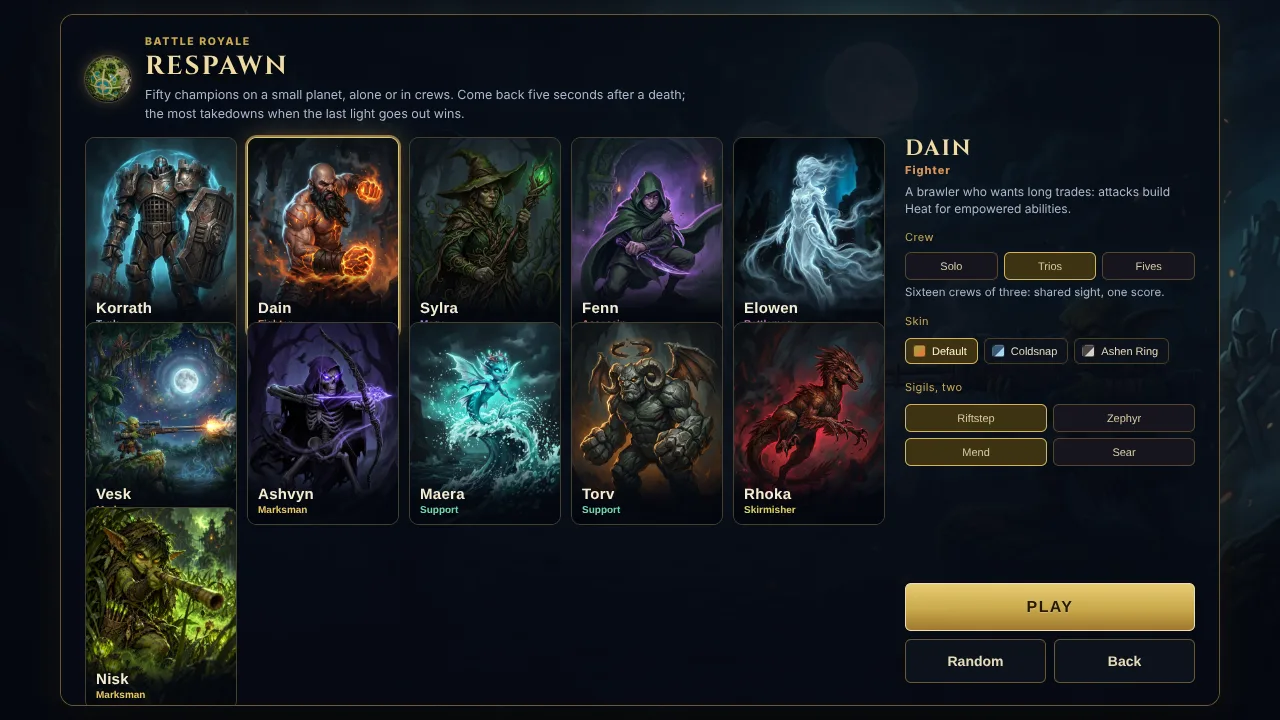
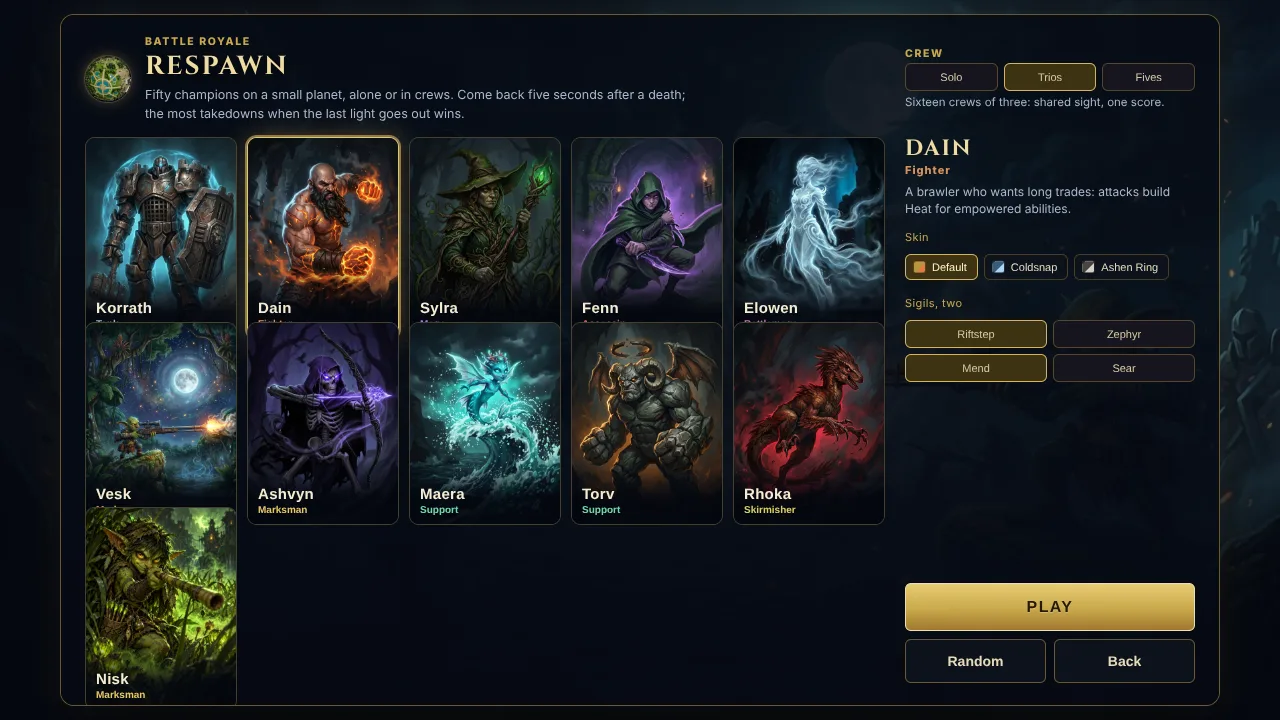
fix(ui): the crew choice in the pick's head, words that fit, Play now on Solo
From the review of the Crews tranche (ADR 0034):

- The Crew row in the quick pick's rail pushed Random and Back off a
  phone held sideways (844x390 with a long skin row, 740x360, 667x375).
  The choice now stands at the right of the card's head; the rail is
  as tall as before, nothing to scroll at any of those sizes, and a
  phone held upright keeps the emblem beside the title.
- The crews' win card title ran to two lines on a desktop and into the
  notices on a phone, and the win line overflowed its row: "The crew
  with the most takedowns wins", "Top crew wins · 4:12 left · your crew
  is 3rd", and on a phone One life's "Last crew standing wins" alone
  (the count beside the Dusk says the crews left). The layout test now
  holds the crews' words to the same rooms.
- Play now's quick pick opens on Solo, the match the landing says is
  on; the tiles open on the size last played.

The after screenshots are taken again.

Claude-Session: https://claude.ai/code/session_01PvBF7rcYHFuih3iQK816FY

Changed region(s): [[0.6875, 0.3361, 0.9062, 0.6722], [0.6875, 0.0611, 0.9062, 0.1528]]

diff --git a/tests/royale_win_layout.test.ts b/tests/royale_win_layout.test.ts
@@ -65,6 +65,8 @@ const DESKS: readonly [number, number][] = [
 ];
 const [PW, PH] = [844, 390];
 const BOTH = ['respawn', 'one_life'] as const;
+// Each rule set's card in Solo and in Crews (ADR 0034).
+const CARDS = BOTH.flatMap((v) => [[v, false] as const, [v, true] as const]);
 
 // The bar with its bars, slots and loot row at the bottom center of a
 // desktop, and the hints at its bottom left.
@@ -131,8 +133,8 @@ const inside = (b: ScreenBox, w: number, h: number): boolean =>
 describe('where the win card stands on a desktop', () => {
   for (const [w, h] of DESKS) {
     it(`stands at the left, off the champion and the HUD's lines, at ${w}x${h}`, () => {
-      for (const v of BOTH) {
-        const card = winCardBox(w, false, false, winCardWords(v));
+      for (const [v, crews] of CARDS) {
+        const card = winCardBox(w, false, false, winCardWords(v, crews));
         const near: [string, ScreenBox][] = [
           ['champion', championBox(w, h)],
           ['top line', topLineBox(w, false)],
@@ -145,7 +147,8 @@ describe('where the win card stands on a desktop', () => {
           ['map', deskMap(w, h)],
           ['chip', chipBox(w, h, false)],
         ];
-        for (const [name, box] of near) expect(overlaps(card, box), `${v} ${name}`).toBe(false);
+        for (const [name, box] of near)
+          expect(overlaps(card, box), `${v}${crews ? ' crews' : ''} ${name}`).toBe(false);
         expect(inside(card, w, h)).toBe(true);
       }
     });
@@ -156,8 +159,8 @@ describe('where the win card stands on a desktop', () => {
     // The lane fills from its foot: its first two notices.
     const foot = h - NOTES_BOTTOM_PX;
     const twoNotices: ScreenBox = { ...notesLane(w, h), top: foot - 2 * NOTE_H_PX };
-    for (const v of BOTH) {
-      const card = winCardBox(w, false, false, winCardWords(v));
+    for (const [v, crews] of CARDS) {
+      const card = winCardBox(w, false, false, winCardWords(v, crews));
       const near: [string, ScreenBox][] = [
         ['champion', championBox(w, h)],
         ['top line', topLineBox(w, false)],
@@ -166,7 +169,8 @@ describe('where the win card stands on a desktop', () => {
         ['notices', twoNotices],
         ['bar', bar(w, h)],
       ];
-      for (const [name, box] of near) expect(overlaps(card, box), `${v} ${name}`).toBe(false);
+      for (const [name, box] of near)
+        expect(overlaps(card, box), `${v}${crews ? ' crews' : ''} ${name}`).toBe(false);
     }
   });
 
@@ -176,8 +180,8 @@ describe('where the win card stands on a desktop', () => {
     // close button; the lines at their own widest.
     const t = WIN_DESK_TYPE;
     const w = winCardWidth(1280, false, false);
-    for (const v of BOTH) {
-      const words = winCardWords(v);
+    for (const [v, crews] of CARDS) {
+      const words = winCardWords(v, crews);
       expect(words.title.length * t.titlePx * 0.61).toBeLessThanOrEqual(
         w - 2 * t.padX - t.border - t.close,
       );
@@ -193,8 +197,8 @@ describe('where the win card stands on a desktop', () => {
 describe('where the win card stands on a phone', () => {
   for (const thumbs of [true, false]) {
     it(`stands left of the champion, clear of the controls, ${thumbs ? 'thumbs' : 'taps'}`, () => {
-      for (const v of BOTH) {
-        const card = winCardBox(PW, true, thumbs, winCardWords(v));
+      for (const [v, crews] of CARDS) {
+        const card = winCardBox(PW, true, thumbs, winCardWords(v, crews));
         const near: [string, ScreenBox][] = [
           ['champion', championBox(PW, PH)],
           ['top line', topLineBox(PW, true)],
@@ -215,7 +219,8 @@ describe('where the win card stands on a phone', () => {
         } else {
           near.push(['touch bar', tapsBar], ['hints', tapsHints]);
         }
-        for (const [name, box] of near) expect(overlaps(card, box), `${v} ${name}`).toBe(false);
+        for (const [name, box] of near)
+          expect(overlaps(card, box), `${v}${crews ? ' crews' : ''} ${name}`).toBe(false);
         expect(inside(card, PW, PH)).toBe(true);
         // Room for a line at a readable size.
         expect(card.right - card.left).toBeGreaterThanOrEqual(260);
@@ -279,6 +284,14 @@ describe('the win line', () => {
   const longest = (compact: boolean): string[] => [
     winLine({ v: 'respawn', st: 'play', end: 600, alive: 50, rk: 50 }, 0, compact) ?? '',
     winLine({ v: 'one_life', st: 'play', end: 600, alive: 50 }, 0, compact) ?? '',
+    // Crews: the last of sixteen crews.
+    winLine(
+      { v: 'respawn', st: 'play', end: 600, alive: 48, rk: 16, cw: { n: 16, s: 0 } },
+      0,
+      compact,
+    ) ?? '',
+    winLine({ v: 'one_life', st: 'play', end: 600, alive: 48, cw: { n: 16, s: 0 } }, 0, compact) ??
+      '',
   ];
 
   it("shares a phone's row with the Dusk's pill, clear of the thumbs' hints and map", () => {

diff --git a/src/ui/royale_pick.ts b/src/ui/royale_pick.ts
@@ -1,7 +1,9 @@
 // The battle royale's quick pick (ADR 0031): one card over the painted
-// backdrop, the ten champions of the roster on the left, the one chosen on
-// the right with the crew size (Solo, Trios, Fives; ADR 0034), its skins
-// and the two sigils, Random, and the big Play.
+// backdrop, the crew size (Solo, Trios, Fives; ADR 0034) at the right of
+// its head, the ten champions of the roster on the left, the one chosen on
+// the right with its skins and the two sigils, Random, and the big Play.
+// The crew stands in the head, not the rail: in the rail it pushed Random
+// and Back off a phone held sideways (the review, 2026-10-13).
 // No lanes, no bans, no clock, and nothing taken: duplicates are allowed.
 // It opens on the pick last played (ui/royale_pick_rules.ts decides, the
 // host remembers it); Back, Escape or the browser's Back leave it with no
@@ -47,9 +49,12 @@ const CSS = `
 .br-pick-role { font-size: 11px; font-weight: 800; letter-spacing: 1px; margin-top: 2px; }
 .br-pick-blurb { font-size: 12px; line-height: 1.45; color: #a9b9cf; margin: 6px 0 2px; }
 .br-pick-side .menu-sigils { flex-wrap: wrap; }
-.br-pick-crews { display: flex; gap: 6px; margin: 4px 0 2px; }
-.br-pick-crews .menu-sigil { flex: 1 1 0; }
-.br-pick-crew-line { font-size: 11.5px; line-height: 1.4; color: #a9b9cf; margin: 2px 0 4px; }
+.br-pick-head { flex-wrap: wrap; }
+.br-pick-words { flex: 1 1 200px; min-width: 0; }
+.br-pick-crew { margin-left: auto; width: 290px; flex: none; }
+.br-pick-crews { display: flex; gap: 6px; margin: 3px 0 0; }
+.br-pick-crews .menu-sigil { flex: 1 1 0; margin: 0; }
+.br-pick-crew-line { font-size: 11.5px; line-height: 1.4; color: #a9b9cf; margin: 3px 0 0; }
 .br-pick-side .menu-sigil { flex: 1 1 40%; }
 .br-pick-actions { margin-top: auto; padding-top: 10px; display: flex; flex-direction: column; gap: 0; }
 .br-pick-actions .menu-btn { min-height: 44px; }
@@ -64,6 +69,7 @@ const CSS = `
 }
 @media (max-width: 560px) {
   .br-pick-grid { grid-template-columns: repeat(3, minmax(0, 1fr)); }
+  .br-pick-crew { width: 100%; margin-left: 0; }
 }
 /* A phone held sideways (844x390): the head is one line, the cards sit
    in two rows of five on the left, the rail beside them with Play pinned
@@ -88,7 +94,10 @@ const CSS = `
   .br-pick-side .menu-skins, .br-pick-side .menu-sigils { margin: 2px 0 2px; gap: 4px; }
   .br-pick-side .menu-skin { padding: 4px 7px 4px 22px; font-size: 10px; }
   .br-pick-side .menu-sigil { padding: 5px 2px; font-size: 10px; min-height: 30px; }
-  .br-pick-crew-line { display: none; }
+  .br-pick-crew { width: 236px; }
+  .br-pick-crew small, .br-pick-crew-line { display: none; }
+  .br-pick-crews { margin: 0; gap: 4px; }
+  .br-pick-crews .menu-sigil { padding: 3px 2px; font-size: 10px; min-height: 24px; }
   .br-pick-actions { padding-top: 4px; }
   .br-pick-actions .menu-btn { margin-top: 4px; padding: 6px; font-size: 12px; }
   .br-pick-play.menu-btn.primary { padding: 8px 6px; font-size: 14px; }
@@ -132,7 +141,7 @@ export function showRoyalePick(
 
   const mode = royaleMode(opts.variant);
   const head = el('div', 'br-pick-head');
-  const words = el('div', '');
+  const words = el('div', 'br-pick-words');
   words.append(
     el('small', '', ROYALE_LABEL),
     el('h1', 'menu-title', mode.title),
@@ -180,6 +189,9 @@ export function showRoyalePick(
     crewButtons.set(c.crew, btn);
     crewRow.appendChild(btn);
   }
+  const crewBox = el('div', 'br-pick-crew');
+  crewBox.append(el('small', '', 'Crew'), crewRow, crewLine);
+  head.appendChild(crewBox);
   const skinRow = el('div', 'menu-skins');
   const sigilRow = el('div', 'menu-sigils');
   const sigilButtons = new Map<string, HTMLButtonElement>();
@@ -213,9 +225,6 @@ export function showRoyalePick(
     name,
     roleLine,
     blurb,
-    el('div', 'menu-label', 'Crew'),
-    crewRow,
-    crewLine,
     el('div', 'menu-label', 'Skin'),
     skinRow,
     el('div', 'menu-label', 'Sigils, two'),

diff --git a/src/main.ts b/src/main.ts
@@ -119,7 +119,12 @@ import { showReloadNotice } from './ui/reload_notice';
 import { buildReplayBar, type ReplayBar } from './ui/replay_bar';
 import { replayRefusal } from './ui/replay_notice';
 import { showRoyaleJoining, showRoyalePick } from './ui/royale_pick';
-import { FIRST_ROYALE_CHAMPION, initialPick, type RoyalePick } from './ui/royale_pick_rules';
+import {
+  FIRST_ROYALE_CHAMPION,
+  initialPick,
+  type RoyalePick,
+  withCrew,
+} from './ui/royale_pick_rules';
 import { seatLine } from './ui/seat_lines';
 import { attachTurnAsk } from './ui/turn_ask';
 import type { IWorld } from './world_api';
@@ -1321,7 +1326,7 @@ async function runOnline(choice: HomeChoice, guest = false): Promise<PostMatchAc
 // from: the pick last played already chosen, remembered on Play for next
 // time. Null when it is left without a pick: its Back, Escape, or the
 // browser's Back.
-async function pickForRoyale(variant: RoyaleVariant): Promise<RoyalePick | null> {
+async function pickForRoyale(variant: RoyaleVariant, solo = false): Promise<RoyalePick | null> {
   // The map downloads while the person picks, as for every other match.
   prefetchStarOrchard();
   return new Promise((resolve) => {
@@ -1330,13 +1335,14 @@ async function pickForRoyale(variant: RoyaleVariant): Promise<RoyalePick | null>
       frame.closed();
       resolve(null);
     };
-    const initial = initialPick(
+    const remembered = initialPick(
       getSettings().royalePick,
       CHAMPION_LIST.map((c) => c.id),
       (id) => SKINS[id]?.length ?? 1,
       SIGIL_LIST.map((s) => s.id),
       FIRST_ROYALE_CHAMPION,
     );
+    const initial = solo ? withCrew(remembered, 1) : remembered;
     const picker = showRoyalePick(container, {
       variant,
       initial,
@@ -1643,7 +1649,7 @@ async function runRoyale(
 // the battle royale, which Play now launches, or the 5v5's public queue,
 // Play again queueing again. Resolves with the exit that ended it.
 async function playAsGuest(guestName: string, play: LandingPlay): Promise<PostMatchAction> {
-  if (play.to === 'royale') return royaleLoop(play.variant, true);
+  if (play.to === 'royale') return royaleLoop(play.variant, true, play.solo === true);
   let action: PostMatchAction = 'again';
   while (action === 'again') action = await runOnline({ name: guestName, mode: 'queue' }, true);
   return action;
@@ -1651,9 +1657,14 @@ async function playAsGuest(guestName: string, play: LandingPlay): Promise<PostMa
 
 // Battle royales back to back (game/royale_flow.ts): the quick pick once,
 // then Play again and the other rule set straight into the next match with
-// the same pick. Resolves with the exit that left the loop.
-async function royaleLoop(variant: RoyaleVariant, guest: boolean): Promise<PostMatchAction> {
-  const pick = await pickForRoyale(variant);
+// the same pick. Play now's quick pick opens on Solo (`solo`, ADR 0034).
+// Resolves with the exit that left the loop.
+async function royaleLoop(
+  variant: RoyaleVariant,
+  guest: boolean,
+  solo = false,
+): Promise<PostMatchAction> {
+  const pick = await pickForRoyale(variant, solo);
   if (!pick) return 'menu';
   let rules = variant;
   for (;;) {

diff --git a/tests/royale_crews_ui.test.ts b/tests/royale_crews_ui.test.ts
@@ -8,6 +8,7 @@ import { crewWatchTarget } from '../src/game/crew_watch';
 import { clampSettings } from '../src/game/settings';
 import { royaleEnterMsg } from '../src/net/royale_client';
 import type { RoyaleResult, SnapMark } from '../src/net/royale_wire';
+import { LANDING_WAYS, PLAY_NOW } from '../src/ui/landing_modes';
 import { huntedTargets } from '../src/ui/royale_hunted';
 import { CREW_CHOICES, crewChoice } from '../src/ui/royale_modes';
 import { joiningLine } from '../src/ui/royale_pick';
@@ -44,6 +45,12 @@ describe('the crew size on the quick pick', () => {
     expect(initialPick(memory, ['dain'], () => 1, ['riftstep', 'mend'], 'dain').crew).toBe(3);
   });
 
+  it("opens Play now's pick on Solo, the match the landing says is on", () => {
+    expect(PLAY_NOW.play).toEqual({ to: 'royale', variant: 'respawn', solo: true });
+    const oneLife = LANDING_WAYS.find((w) => w.id === 'one_life')!;
+    expect(oneLife.door.play).toEqual({ to: 'royale', variant: 'one_life' });
+  });
+
   it('says what the joining card waits on', () => {
     expect(joiningLine(1)).toMatch(/fifty seats/);
     expect(joiningLine(3)).toBe('Finding you a crew of three, bots in the empty seats.');
@@ -75,10 +82,13 @@ describe('the top line and the win line in Crews', () => {
 
   it('says what wins in Crews', () => {
     const r = { ...base, end: 610, rk: 3, cw: { n: 16, s: 4 } };
-    expect(winLine(r, 358)).toBe('Most crew takedowns wins · 4:12 left · your crew is 3rd');
-    expect(winLine({ ...r, v: 'one_life', cw: { n: 5, s: 0 } }, 100)).toBe(
-      'Last crew standing wins · 5 crews left',
-    );
+    expect(winLine(r, 358)).toBe('Top crew wins · 4:12 left · your crew is 3rd');
+    expect(winLine(r, 358, true)).toBe('Top crew wins · 4:12 left');
+    const oneLife = { ...r, v: 'one_life' as const, cw: { n: 5, s: 0 } };
+    expect(winLine(oneLife, 100)).toBe('Last crew standing wins · 5 left');
+    // On a phone the count beside the Dusk line says the crews left.
+    expect(winLine(oneLife, 100, true)).toBe('Last crew standing wins');
+    expect(winCardWords('respawn', true).title).toBe('The crew with the most takedowns wins');
     expect(winCardWords('one_life', true).title).toBe('Last crew standing wins');
     expect(winCardWords('one_life').title).toBe('Last one standing wins');
   });

diff --git a/src/ui/royale_win_line.ts b/src/ui/royale_win_line.ts
@@ -3,9 +3,11 @@
 // viewer stands. Respawn: "Most takedowns wins · 4:12 left · you are 11th",
 // the time until the last light goes out and the own rank (the count line
 // above qualifies a drop-in's, "since you landed"). One life: "Last one
-// standing wins · 23 left". In Crews (ADR 0034) the crews': "Most crew
-// takedowns wins · 4:12 left · your crew is 3rd", "Last crew standing wins
-// · 5 crews left". On a phone (`compact`) the line shares its row
+// standing wins · 23 left". In Crews (ADR 0034) the crews': "Top crew
+// wins · 4:12 left · your crew is 3rd", "Last crew standing wins · 5 left"
+// (the crews; the count line above names them, alone on a phone), no wider
+// than Solo's. On a
+// phone (`compact`) the line shares its row
 // with the Dusk's pill and leaves the rank to the count beside the Dusk
 // line, which carries it there; on a desktop the pill takes its place
 // while it shows (winLineAside).
@@ -14,7 +16,7 @@
 // ui/royale_win_view.ts draws it.
 
 import type { SnapRoyale } from '../net/royale_wire';
-import { clockText, crewsText, ordinal } from './royale_text';
+import { clockText, ordinal } from './royale_text';
 
 // Its size and padding, a desktop's and a phone's, and the gap to the
 // Dusk's pill beside it on a phone (ui/royale_win_view.ts).
@@ -29,7 +31,7 @@ export const WIN_LINE_EM_PER_CHAR = 0.6;
 
 export const RESPAWN_WINS = 'Most takedowns wins';
 export const ONE_LIFE_WINS = 'Last one standing wins';
-export const CREW_RESPAWN_WINS = 'Most crew takedowns wins';
+export const CREW_RESPAWN_WINS = 'Top crew wins';
 export const CREW_ONE_LIFE_WINS = 'Last crew standing wins';
 
 export function winLine(
@@ -39,7 +41,9 @@ export function winLine(
 ): string | null {
   if (r.st !== 'play') return null;
   if (r.v === 'one_life') {
-    if (r.cw) return `${CREW_ONE_LIFE_WINS} · ${crewsText(r.cw.n)} left`;
+    // On a phone the count beside the Dusk line already says the crews
+    // left (royale_text.ts crewCountLine), and the row has no room for both.
+    if (r.cw) return compact ? CREW_ONE_LIFE_WINS : `${CREW_ONE_LIFE_WINS} · ${r.cw.n} left`;
     return `${ONE_LIFE_WINS} · ${r.alive} left`;
   }
   const parts = [r.cw ? CREW_RESPAWN_WINS : RESPAWN_WINS, `${clockText(r.end - time)} left`];

diff --git a/src/ui/landing_modes.ts b/src/ui/landing_modes.ts
@@ -83,7 +83,10 @@ export function accountCardWords(own: LandingOwn | null): { title: string; line:
 
 // What a way in plays as a Guest (ADR 0024): the battle royale on one of its
 // two rule sets (ADR 0031), or the 5v5 on the Star Orchard.
-export type LandingPlay = { to: 'royale'; variant: RoyaleVariant } | { to: 'classic' };
+// `solo`: the quick pick opens on Solo whatever crew size it remembers
+// (ADR 0034: Play now stays Respawn in Solo, the match the landing's line
+// says is on); the person may still choose a crew on it.
+export type LandingPlay = { to: 'royale'; variant: RoyaleVariant; solo?: true } | { to: 'classic' };
 
 // The way in that needs nothing: what its button says, and what the
 // landing resolves with when it is pressed (ui/landing.ts). The Play now
@@ -101,7 +104,7 @@ export interface LandingDoor {
 export const PLAY_NOW: LandingDoor = {
   call: PLAY_NOW_CALL,
   kind: 'guest',
-  play: { to: 'royale', variant: 'respawn' },
+  play: { to: 'royale', variant: 'respawn', solo: true },
 };
 
 // The Play now card's ways in, one row each, in the order they stand: the

diff --git a/src/ui/royale_win_card.ts b/src/ui/royale_win_card.ts
@@ -39,9 +39,9 @@ const CARDS: Readonly<Record<RoyaleVariant, WinCardWords>> = {
 // In Crews (ADR 0034): the crew wins or falls as one.
 const CREW_CARDS: Readonly<Record<RoyaleVariant, WinCardWords>> = {
   respawn: {
-    title: 'The crew with the most takedowns when the light goes out wins',
+    title: 'The crew with the most takedowns wins',
     lines: [
-      'Your crew shares its sight and its score',
+      'Your crew shares its sight and score',
       'Open caches for your build',
       'Stay in the light: the Dusk burns',
     ],
@@ -49,7 +49,7 @@ const CREW_CARDS: Readonly<Record<RoyaleVariant, WinCardWords>> = {
   one_life: {
     title: 'Last crew standing wins',
     lines: [
-      'One life: a fall leaves you watching your crew',
+      'One life: then you watch your crew',
       'Open caches for your build',
       'Stay in the light: the Dusk burns',
     ],

diff --git a/tests/landing_modes.test.ts b/tests/landing_modes.test.ts
@@ -92,7 +92,7 @@ describe("the landing's ways to play", () => {
     expect(PLAY_NOW).toEqual({
       call: PLAY_NOW_CALL,
       kind: 'guest',
-      play: { to: 'royale', variant: 'respawn' },
+      play: { to: 'royale', variant: 'respawn', solo: true },
     });
   });
 
@@ -103,7 +103,7 @@ describe("the landing's ways to play", () => {
     // Respawn's row is the gold button's own door, so the two cannot differ.
     expect(LANDING_WAYS[0]?.door).toBe(PLAY_NOW);
     expect(LANDING_WAYS.map((w) => w.door.play)).toEqual([
-      { to: 'royale', variant: 'respawn' },
+      { to: 'royale', variant: 'respawn', solo: true },
       { to: 'royale', variant: 'one_life' },
       { to: 'classic' },
     ]);

diff --git a/tests/royale_art.test.ts b/tests/royale_art.test.ts
@@ -61,7 +61,7 @@ describe("the landing's New banner", () => {
     // (the maintainer, 2026-10-03).
     expect(landing).not.toContain('bots in every empty seat');
     // The gold button still plays Respawn, and still says where it plays.
-    expect(PLAY_NOW.play).toEqual({ to: 'royale', variant: 'respawn' });
+    expect(PLAY_NOW.play).toEqual({ to: 'royale', variant: 'respawn', solo: true });
     expect(PLAY_NOW_CALL).toBe('Play in the browser now');
   });
 });
